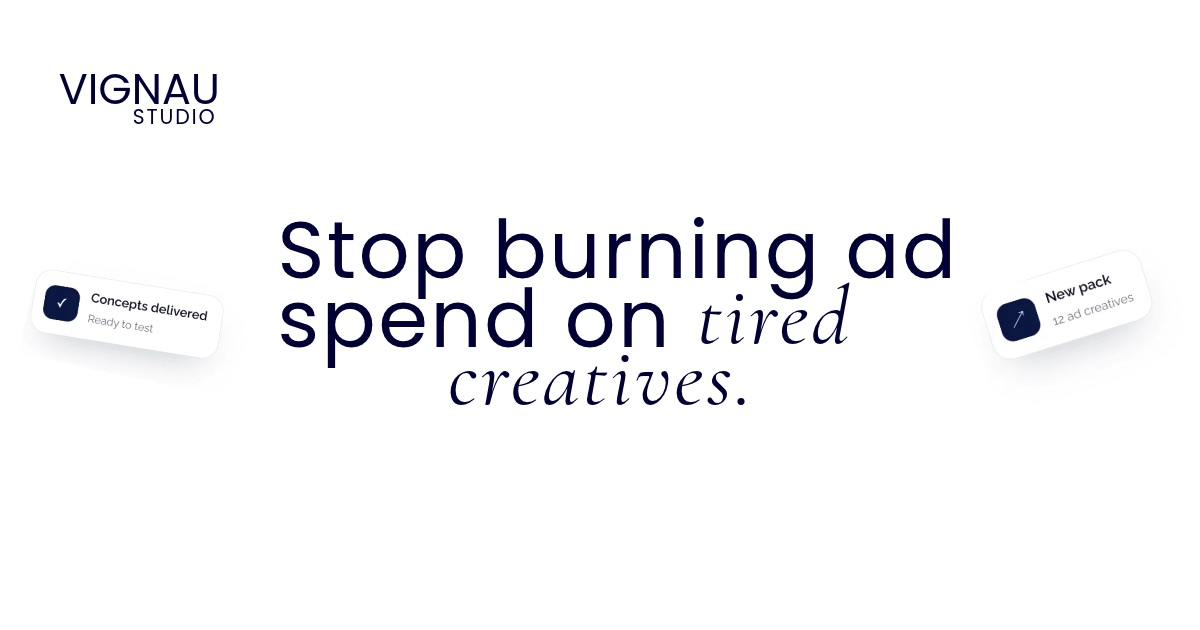
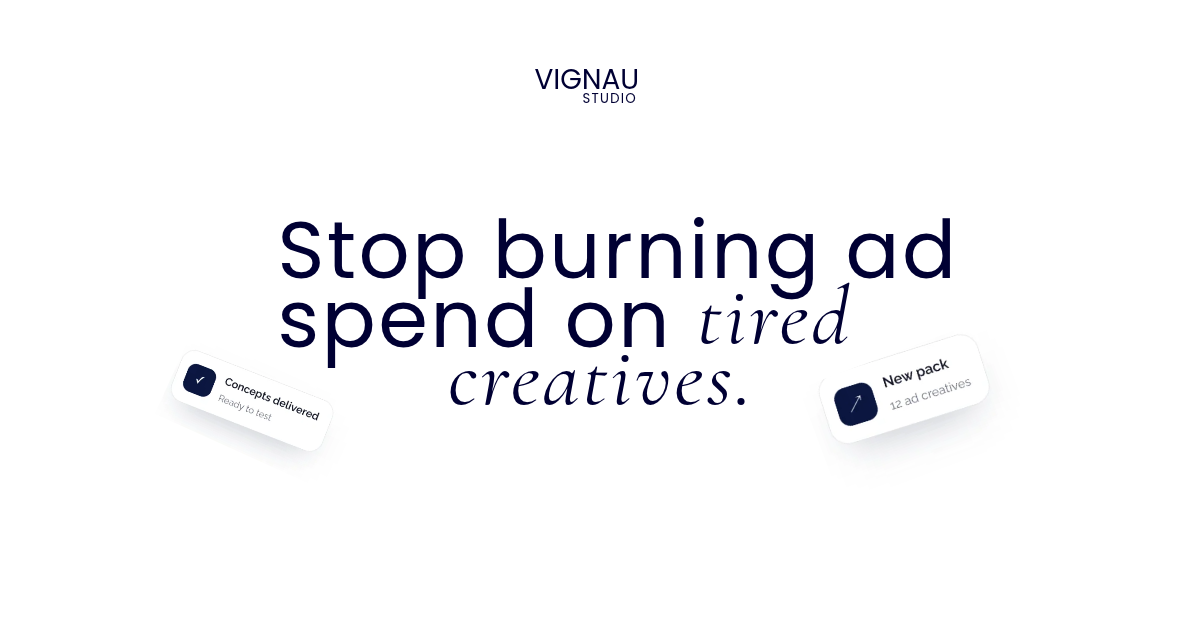
Anglais par défaut, Journal bilingue

diff --git a/blog/index.html b/blog/index.html
@@ -76,7 +76,7 @@ footer{max-width:var(--max);margin:0 auto;padding:34px var(--pad) 44px;color:var
 <header class="nav"><div class="in">
   <a href="../index.html" class="logo"><span class="lw">VIGNAU</span><span class="ls">STUDIO</span></a>
   <nav><a href="../#exemples">Exemples</a><a href="../#cas">Projets</a><a href="../#tarifs">Offres</a><a href="index.html">Journal</a></nav>
-  <span style="display:flex;gap:8px;align-items:center"><a href="../#top" class="btn">Aperçu gratuit</a><button type="button" class="burger" aria-label="Menu" aria-expanded="false" onclick="var n=this.closest('.nav');var o=n.classList.toggle('open');this.setAttribute('aria-expanded',o)"><span></span></button></span>
+  <span style="display:flex;gap:8px;align-items:center"><span class="langsw" style="display:inline-flex;gap:4px;font-size:13px;margin-right:6px"><button type="button" data-l="fr" style="border:0;background:none;padding:6px 9px;border-radius:8px;cursor:pointer;font:inherit;color:#6B7080">FR</button><button type="button" data-l="en" style="border:0;background:none;padding:6px 9px;border-radius:8px;cursor:pointer;font:inherit;color:#6B7080">EN</button></span><a href="https://calendly.com/vignaustudio/brand-audit" class="btn" id="jcta" target="_blank" rel="noopener">Book a call</a><button type="button" class="burger" aria-label="Menu" aria-expanded="false" onclick="var n=this.closest('.nav');var o=n.classList.toggle('open');this.setAttribute('aria-expanded',o)"><span></span></button></span>
 </div></header>
 <main class="frame">
   <section class="head">
@@ -86,25 +86,43 @@ footer{max-width:var(--max);margin:0 auto;padding:34px var(--pad) 44px;color:var
   </section>
   <div id="posts"></div>
 </main>
-<footer><span>© <span id="yr"></span> Vignau Studio, Paris</span><span><a href="../legal.html#mentions">Mentions légales</a> · <a href="../legal.html#cgv">CGV</a> · <a href="../legal.html#confidentialite">Confidentialité</a> · <a href="../index.html">Retour au site</a></span></footer>
+<footer><span>© <span id="yr"></span> Vignau Studio</span><span><a href="../legal.html#mentions">Mentions légales</a> · <a href="../legal.html#cgv">CGV</a> · <a href="../legal.html#confidentialite">Confidentialité</a> · <a href="../index.html">Retour au site</a></span></footer>
 <script>
+/* VS-JOURNAL-I18N */
 (function(){
-  const posts = (window.SITE && SITE.journal && SITE.journal.posts) || [];
-  const esc = s => String(s==null?'':s).replace(/[&<>"]/g, c => ({'&':'&amp;','<':'&lt;','>':'&gt;','"':'&quot;'}[c]));
-  const t = v => typeof v === 'object' && v ? (v.fr || v.en || '') : (v || '');
-  const fmt = v => esc(t(v)).replace(/\*(.+?)\*/g,'<em>$1</em>');
-  const d = s => { try { return new Date(s).toLocaleDateString('fr-FR',{day:'numeric',month:'long',year:'numeric'}); } catch(e){ return s; } };
-  const u = p => '../' + p;
-  const img = (p) => '<img src="'+esc(u(p.img))+'" alt="'+esc(t(p.title))+'" loading="lazy" onerror="this.style.visibility=\'hidden\'">';
-  const meta = p => '<div class="meta"><span>'+esc(t(p.cat))+'</span><span>'+esc(d(p.date))+'</span>'+(p.minutes?'<span>'+p.minutes+' min</span>':'')+'</div>';
-  if (!posts.length) { document.getElementById('posts').innerHTML = '<p style="padding:60px var(--pad);color:var(--mute)">Premiers articles très bientôt.</p>'; }
-  else {
-    const [f, ...rest] = posts;
-    document.getElementById('posts').innerHTML =
-      '<a class="feat" href="'+esc(u(f.url))+'"><div class="fimg">'+img(f)+'</div><div>'+meta(f)+'<h2>'+fmt(f.title)+'</h2><p>'+fmt(f.excerpt)+'</p><span class="read">Lire l\'article →</span></div></a>' +
-      (rest.length ? '<div class="list">'+rest.map(p=>'<a class="card" href="'+esc(u(p.url))+'">'+meta(p)+'<div class="cimg">'+img(p)+'</div><h3>'+fmt(p.title)+'</h3><p>'+fmt(p.excerpt)+'</p></a>').join('')+'</div>' : '');
+  var S=window.SITE||{}, posts=(S.journal&&S.journal.posts)||[];
+  var lang; try{lang=localStorage.getItem('vs-lang');}catch(e){}
+  if(lang!=='fr'&&lang!=='en') lang=(S.defaultLang==='fr')?'fr':'en';
+  var L={
+    fr:{nav:['Exemples','Projets','Offres','Journal'],cta:'Réserver un appel',h1:'Le <em>Journal</em>',sub:"Stratégie de marque, direction artistique et créas qui vendent, pour les marques beauté, mode et luxe.",read:"Lire l'article →",empty:'Premiers articles très bientôt.',foot:['Mentions légales','CGV','Confidentialité','Retour au site'],loc:'fr-FR'},
+    en:{nav:['Examples','Work','Offers','Journal'],cta:'Book a call',h1:'The <em>Journal</em>',sub:'Brand strategy, art direction and creatives that sell, for beauty, fashion and luxury brands.',read:'Read the article →',empty:'First articles coming soon.',foot:['Legal notice','Terms','Privacy','Back to site'],loc:'en-US'}
+  };
+  var esc=function(s){return String(s==null?'':s).replace(/[&<>"]/g,function(c){return {'&':'&amp;','<':'&lt;','>':'&gt;','"':'&quot;'}[c];});};
+  function t(v){ return (v&&typeof v==='object')?(v[lang]||v.en||v.fr||''):(v||''); }
+  function fmt(v){ return esc(t(v)).replace(/\*(.+?)\*/g,'<em>$1</em>'); }
+  function d(s){ try{ return new Date(s).toLocaleDateString(L[lang].loc,{day:'numeric',month:'long',year:'numeric'}); }catch(e){ return s; } }
+  function u(p){ return '../'+t(p); }
+  function img(p){ return '<img src="'+esc('../'+p.img)+'" alt="'+esc(t(p.title))+'" loading="lazy" onerror="this.style.visibility=\'hidden\'">'; }
+  function meta(p){ return '<div class="meta"><span>'+esc(t(p.cat))+'</span><span>'+esc(d(p.date))+'</span>'+(p.minutes?'<span>'+p.minutes+' min</span>':'')+'</div>'; }
+  function draw(){
+    var T=L[lang]; document.documentElement.lang=lang;
+    document.querySelectorAll('.nav nav a').forEach(function(a,k){ if(T.nav[k]) a.textContent=T.nav[k]; });
+    var cta=document.getElementById('jcta'); if(cta){ cta.textContent=T.cta; if(S.callUrl) cta.href=S.callUrl; }
+    var h1=document.querySelector('.head h1'); if(h1) h1.innerHTML=T.h1;
+    var sp=document.querySelector('.head p'); if(sp) sp.textContent=T.sub;
+    var box=document.getElementById('posts');
+    if(!posts.length){ box.innerHTML='<p style="padding:60px var(--pad);color:var(--mute)">'+T.empty+'</p>'; }
+    else {
+      var f=posts[0], rest=posts.slice(1);
+      box.innerHTML='<a class="feat" href="'+esc(u(f.url))+'"><div class="fimg">'+img(f)+'</div><div>'+meta(f)+'<h2>'+fmt(f.title)+'</h2><p>'+fmt(f.excerpt)+'</p><span class="read">'+T.read+'</span></div></a>'+
+        (rest.length?'<div class="list">'+rest.map(function(p){return '<a class="card" href="'+esc(u(p.url))+'">'+meta(p)+'<div class="cimg">'+img(p)+'</div><h3>'+fmt(p.title)+'</h3><p>'+fmt(p.excerpt)+'</p></a>';}).join('')+'</div>':'');
+    }
+    document.querySelectorAll('footer a').forEach(function(a,k){ if(T.foot[k]) a.textContent=T.foot[k]; });
+    document.querySelectorAll('.langsw [data-l]').forEach(function(b){ var on=b.getAttribute('data-l')===lang; b.style.background=on?'#F3F4F7':'none'; b.style.color=on?'#0B0F1F':'#6B7080'; });
   }
-  document.getElementById('yr').textContent = new Date().getFullYear();
+  document.querySelectorAll('.langsw [data-l]').forEach(function(b){ b.addEventListener('click',function(){ lang=b.getAttribute('data-l'); try{localStorage.setItem('vs-lang',lang);}catch(e){} draw(); }); });
+  draw();
+  var yr=document.getElementById('yr'); if(yr) yr.textContent=new Date().getFullYear();
 })();
 </script>
 <script>document.querySelectorAll('.nav nav a').forEach(function(a){a.addEventListener('click',function(){var n=document.querySelector('.nav');n.classList.remove('open');var b=n.querySelector('.burger');if(b)b.setAttribute('aria-expanded','false');});});</script>

diff --git a/blog/construire-une-marque-forte.html b/blog/construire-une-marque-forte.html
@@ -272,5 +272,6 @@ figcaption{font-size:14px;color:var(--mute);margin-top:10px}
 
 <footer><span>© 2026 Vignau Studio</span><span><a href="../legal.html#mentions">Mentions légales</a> · <a href="../legal.html#cgv">CGV</a> · <a href="../legal.html#confidentialite">Confidentialité</a> · <a href="../index.html">Retour au site</a></span></footer>
 <script>document.querySelectorAll('.nav nav a').forEach(function(a){a.addEventListener('click',function(){var n=document.querySelector('.nav');n.classList.remove('open');var b=n.querySelector('.burger');if(b)b.setAttribute('aria-expanded','false');});});</script>
+<script>/* VS-LANG-MEMO */try{localStorage.setItem('vs-lang',document.documentElement.lang==='en'?'en':'fr');}catch(e){}</script>
 </body>
 </html>

diff --git a/blog/building-a-strong-brand.html b/blog/building-a-strong-brand.html
@@ -272,5 +272,6 @@ figcaption{font-size:14px;color:var(--mute);margin-top:10px}
 
 <footer><span>© 2026 Vignau Studio</span><span><a href="../legal.html#mentions">Legal notice</a> · <a href="../legal.html#cgv">Terms</a> · <a href="../legal.html#confidentialite">Privacy</a> · <a href="../index.html">Back to site</a></span></footer>
 <script>document.querySelectorAll('.nav nav a').forEach(function(a){a.addEventListener('click',function(){var n=document.querySelector('.nav');n.classList.remove('open');var b=n.querySelector('.burger');if(b)b.setAttribute('aria-expanded','false');});});</script>
+<script>/* VS-LANG-MEMO */try{localStorage.setItem('vs-lang',document.documentElement.lang==='en'?'en':'fr');}catch(e){}</script>
 </body>
 </html>

diff --git a/content.js b/content.js
@@ -14,7 +14,7 @@ window.SITE = {
   instagram: "https://www.instagram.com/vignaustudio/",
   linkedin: "",   // lien LinkedIn de la PAGE Vignau Studio (vide = masqué)
   siteUrl: "https://vignaustudio.com/",
-  defaultLang: "auto",
+  defaultLang: "en",
 
   /* ---------- MENU ---------- */
   nav: {
